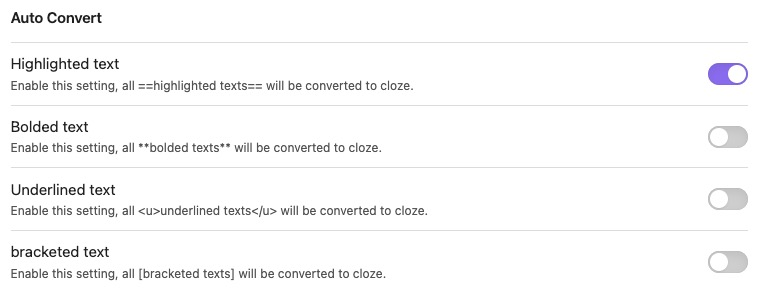
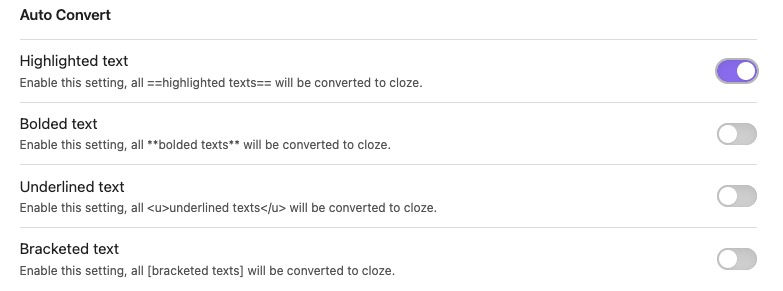
chore: readme

diff --git a/src/lang/en.ts b/src/lang/en.ts
@@ -16,7 +16,7 @@ const langs: Ilangs = {
     setting_bold_desc: 'Enable this setting, all **bolded texts** will be converted to cloze.',
     setting_underline: 'Underlined text',
     setting_underline_desc: 'Enable this setting, all <u>underlined texts</u> will be converted to cloze.',
-	setting_bracket: 'bracketed text',
+	setting_bracket: 'Bracketed text',
     setting_bracket_desc: 'Enable this setting, all [bracketed texts] will be converted to cloze.',
 	setting_editor_menu: 'Editor menu',
 	setting_editor_menu_add_cloze: 'Display add cloze button',

diff --git a/README-CN.md b/README-CN.md
@@ -35,7 +35,7 @@ p.s.刚发现 [Spaced Repetition](https://www.stephenmwangi.com/obsidian-spaced-
 
 在「设置」里开启高亮文本、粗体文本、下划线文本、括号文本的自动转换后，在阅读模式下，它们便会自动转换为填空。
 
-<img src="https://raw.githubusercontent.com/dearvikki/obsidian-cloze-plugin/main/assets/settings1.jpg" width="400" />
+<img src="https://raw.githubusercontent.com/dearvikki/obsidian-cloze-plugin/main/assets/settings1.jpg" width="700" />
 
 #### 填空提示
 

diff --git a/README.md b/README.md
@@ -33,7 +33,7 @@ Afterwards in the reading mode, you can toggle the visibility of a cloze area by
 
 By enabling the following settings, the corresponding text will also automatically be converted into clozes in reading mode.
 
-<img src="https://raw.githubusercontent.com/dearvikki/obsidian-cloze-plugin/main/assets/settings1.jpg" width="400" />
+<img src="https://raw.githubusercontent.com/dearvikki/obsidian-cloze-plugin/main/assets/settings1.jpg" width="700" />
 
 #### Cloze hint
 
